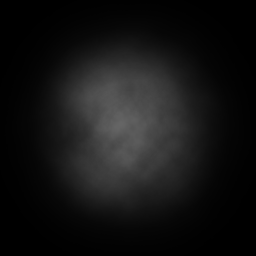
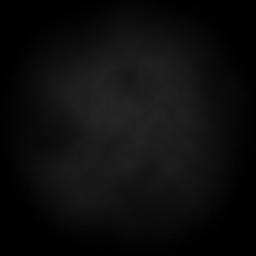
minor tweak

Changed region(s): [[0.2812, 0.25, 0.7188, 0.7812]]

diff --git a/src/KeplerApp.cpp b/src/KeplerApp.cpp
@@ -51,7 +51,7 @@ bool G_DRAW_RINGS		= false;
 bool G_DRAW_TEXT		= false;
 bool G_USE_GYRO			= false;
 bool G_IS_IPAD2			= false;
-int G_NUM_PARTICLES		= 250;
+int G_NUM_PARTICLES		= 25;
 int G_NUM_DUSTS			= 250;
 
 GLfloat mat_diffuse[]	= { 1.0, 1.0, 1.0, 1.0 };
@@ -256,7 +256,7 @@ void KeplerApp::setup()
     delete[] machine;
 
 	if( G_IS_IPAD2 ){
-		G_NUM_PARTICLES = 50;
+		G_NUM_PARTICLES = 25;
 		G_NUM_DUSTS = 1000;
 		motionManager = [[CMMotionManager alloc] init];
 		[motionManager startDeviceMotionUpdates];
@@ -1197,7 +1197,7 @@ void KeplerApp::update()
 		Node *selectedNode = mState.getSelectedArtistNode();
 		if( selectedNode ){
 			mParticleController.update( selectedNode->mRadius * 0.15f, invBbRight, invBbUp );
-			float per = selectedNode->mEclipseStrength * 0.8f + 0.2f;
+			float per = selectedNode->mEclipseStrength * 0.7f + 0.35f;
 			mParticleController.buildParticleVertexArray( sin( per * M_PI ) * sin( per * 0.5f ) );
 			mParticleController.buildDustVertexArray( selectedNode, mPinchAlphaPer, ( 1.0f - mCamRingAlpha ) * 0.03125f * mFadeInArtistToAlbum );
 		}

diff --git a/src/World.cpp b/src/World.cpp
@@ -44,8 +44,8 @@ void World::setup( Data *data )
 	if( !mIsInitialized ){
 		// VERTEX ARRAY SPHERE
 		if( G_IS_IPAD2 ){
-			buildSphereVertexArray( 40, &mNumSphereHiResVerts, mSphereHiResVerts, mSphereHiResTexCoords, mSphereHiResNormals );
-			buildSphereVertexArray( 20, &mNumSphereLoResVerts, mSphereLoResVerts, mSphereLoResTexCoords, mSphereLoResNormals );
+			buildSphereVertexArray( 32, &mNumSphereHiResVerts, mSphereHiResVerts, mSphereHiResTexCoords, mSphereHiResNormals );
+			buildSphereVertexArray( 16, &mNumSphereLoResVerts, mSphereLoResVerts, mSphereLoResTexCoords, mSphereLoResNormals );
 		} else {
 			buildSphereVertexArray( 32, &mNumSphereHiResVerts, mSphereHiResVerts, mSphereHiResTexCoords, mSphereHiResNormals );
 			buildSphereVertexArray( 16, &mNumSphereLoResVerts, mSphereLoResVerts, mSphereLoResTexCoords, mSphereLoResNormals );

diff --git a/src/NodeTrack.cpp b/src/NodeTrack.cpp
@@ -350,13 +350,14 @@ void NodeTrack::drawEclipseGlow()
 
 void NodeTrack::drawPlanet( const vector<gl::Texture> &planets )
 {	
-	if( mSphereScreenRadius > 0.5f && mDistFromCamZAxis < -0.005f ){
+	if( mSphereScreenRadius > 0.5f && mDistFromCamZAxis < -0.005f )
+	{
 		glEnable( GL_RESCALE_NORMAL );
 		glEnableClientState( GL_VERTEX_ARRAY );
 		glEnableClientState( GL_TEXTURE_COORD_ARRAY );
 		glEnableClientState( GL_NORMAL_ARRAY );
 		int numVerts;
-		if( mIsSelected || mIsPlaying ){
+		if( mDistFromCamZAxisPer < 0.15f ){
 			glVertexPointer( 3, GL_FLOAT, 0, mSphereVertsHiRes );
 			glTexCoordPointer( 2, GL_FLOAT, 0, mSphereTexCoordsHiRes );
 			glNormalPointer( GL_FLOAT, 0, mSphereNormalsHiRes );

diff --git a/src/Particle.cpp b/src/Particle.cpp
@@ -33,7 +33,7 @@ void Particle::setup( const Vec3f &bbRight, const Vec3f &bbUp )
 	mAcc		= Rand::randVec3f() * 0.01f;
 	mAge		= 0;
 	mAgePer		= 0.0f;
-	mRadius		= 0.5f;//Rand::randFloat( 0.025f, 0.1f );
+	mRadius		= 1.0f;//Rand::randFloat( 0.025f, 0.1f );
 }
 
 void Particle::update( float radius, const Vec3f &bbRight, const Vec3f &bbUp )
